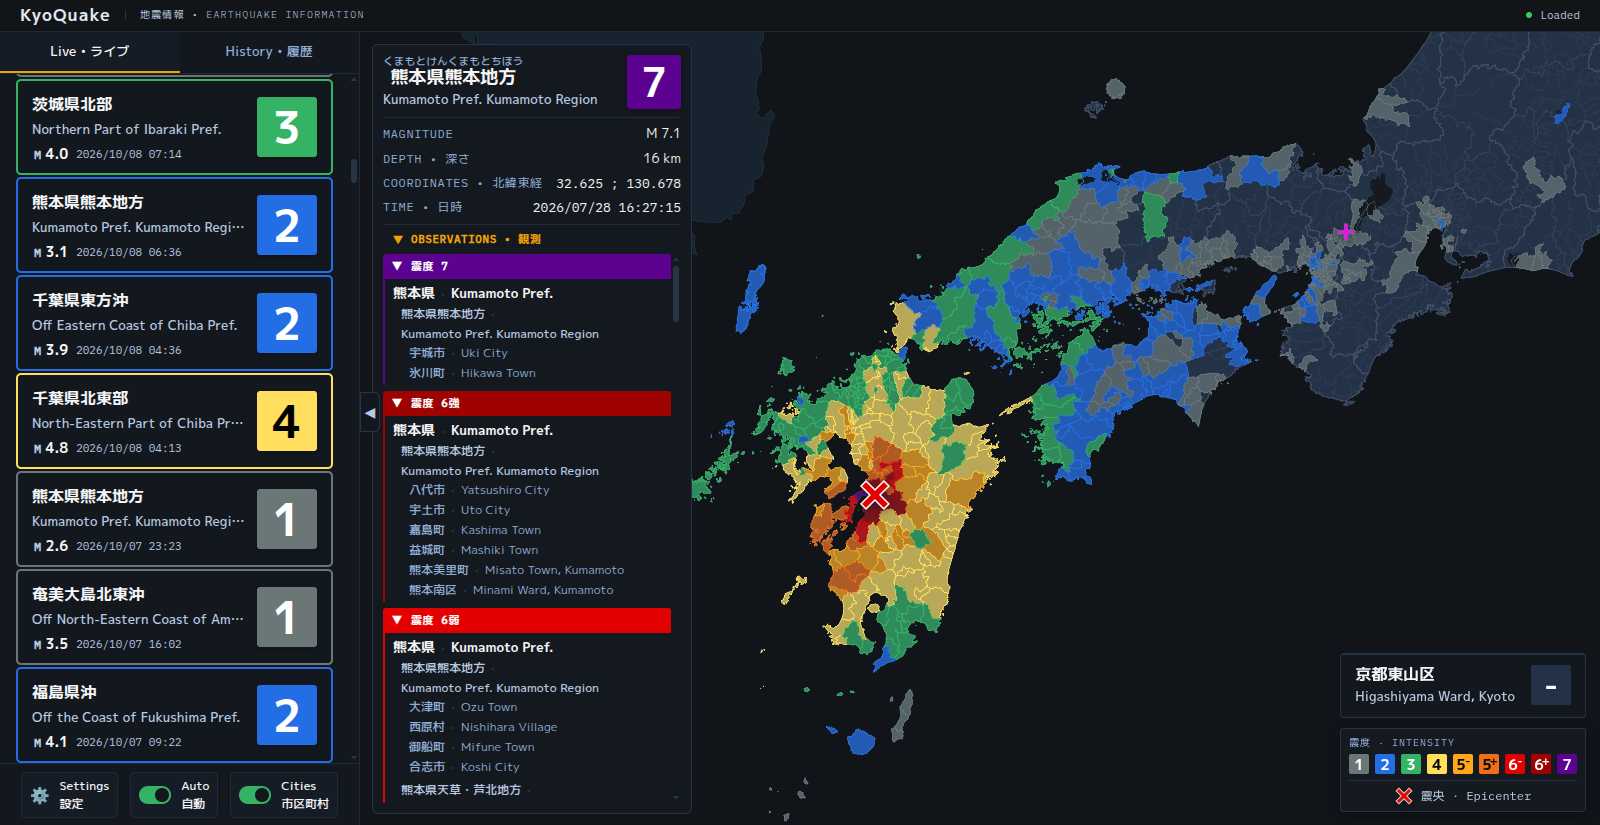
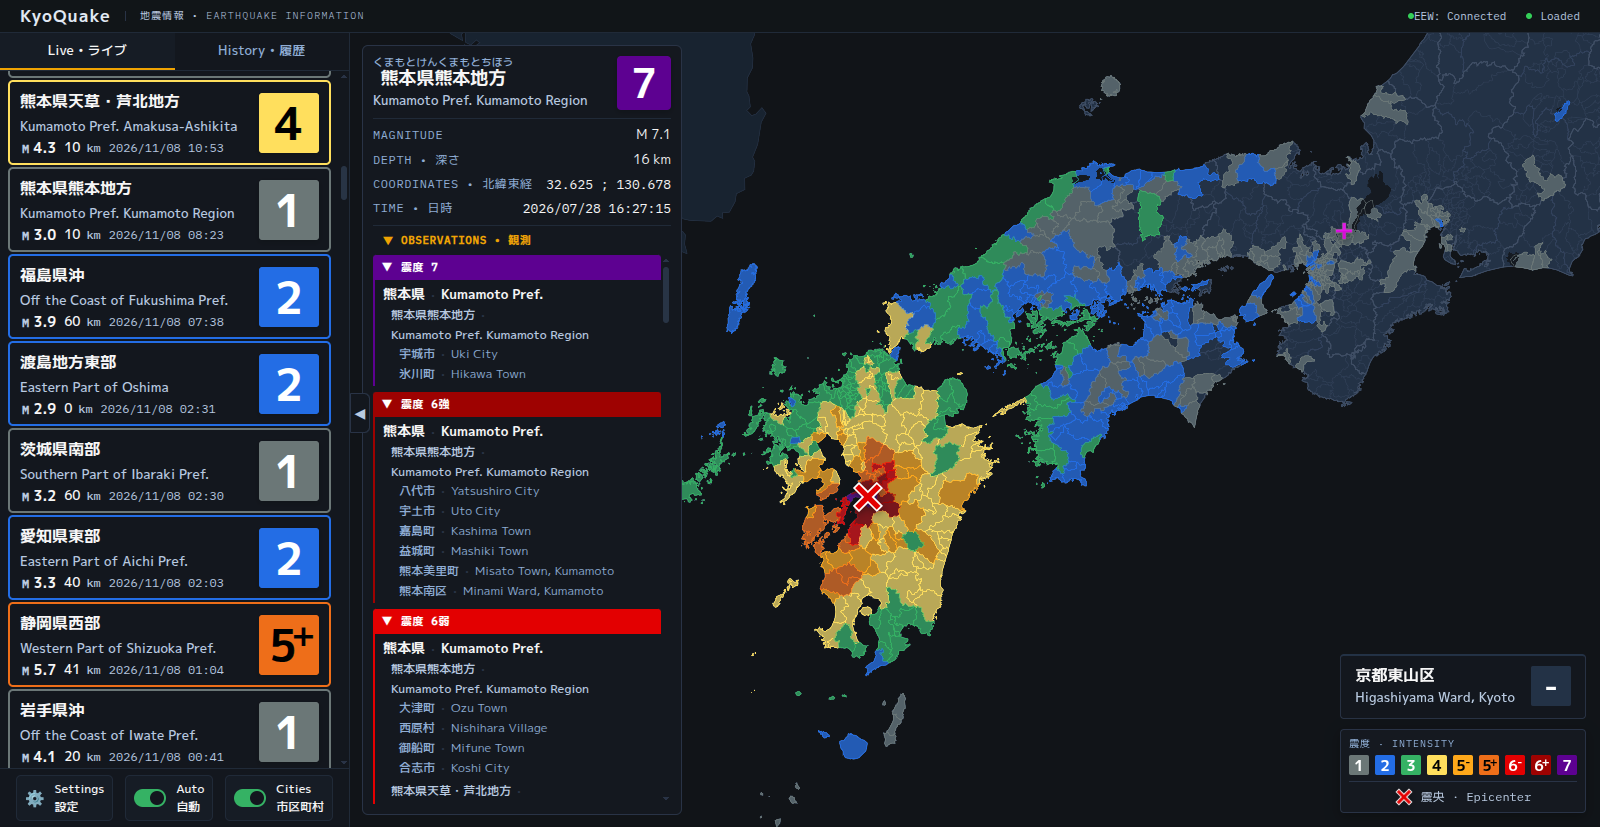
misc

diff --git a/extra/generateSlabIsolines.js b/extra/generateSlabIsolines.js
@@ -1,0 +1,250 @@
+// Generates slab-depth isolines (contours) as a 2D GeoJSON from the Slab2 grids
+// stored in public/slab2_japan.json + public/slab2_japan.bin.
+//
+// Usage: node extra/generateSlabIsolines.js
+// Output: extra/slab-isolines.geojson
+//
+// Each grid cell is 0.1 degrees; depths are km (positive down) and NaN outside
+// the slab. Contours are extracted with marching squares and stitched into
+// LineStrings. Every feature carries { name, depth }.
+
+import fs from 'node:fs';
+
+const META_PATH = 'public/slab2_japan.json';
+const BIN_PATH = 'public/slab2_japan.bin';
+const OUTPUT_PATH = 'extra/slab-isolines.geojson';
+
+const NAMES = {
+  kur: 'Kuril',
+  izu: 'Izu-Bonin',
+  ryu: 'Ryukyu',
+};
+
+// 10 km steps up to 80 km, then 20 km steps.
+function depthBreaks(maxDepth) {
+  const breaks = [];
+  for (let d = 10; d <= 80; d += 10) if (d < maxDepth) breaks.push(d);
+  for (let d = 100; d < maxDepth; d += 20) breaks.push(d);
+  return breaks;
+}
+
+// Marching-squares edge table. Corner bits: c0 = bottom-left (1), c1 =
+// bottom-right (2), c2 = top-right (4), c3 = top-left (8).
+// Edges: e0 = bottom (c0-c1), e1 = right (c1-c2), e2 = top (c2-c3), e3 = left (c3-c0).
+const CASES = {
+  0: [],
+  1: [[3, 0]],
+  2: [[0, 1]],
+  3: [[3, 1]],
+  4: [[1, 2]],
+  5: null, // ambiguous
+  6: [[0, 2]],
+  7: [[2, 3]],
+  8: [[2, 3]],
+  9: [[0, 2]],
+  10: null, // ambiguous
+  11: [[1, 2]],
+  12: [[1, 3]],
+  13: [[0, 1]],
+  14: [[0, 3]],
+  15: [],
+};
+
+function buildSlab(meta, all, code) {
+  const g = meta.slabs[code];
+  const n = g.nx * g.ny;
+  return {
+    ...g,
+    code,
+    name: NAMES[code] ?? code,
+    dep: all.subarray(g.depOffset, g.depOffset + n),
+  };
+}
+
+// Interpolate the crossing on an edge. Endpoints are normalized by grid index
+// so adjacent cells compute bit-identical coordinates for their shared edge.
+function edgePoint(slab, i1, j1, v1, i2, j2, v2, level) {
+  const k1 = j1 * slab.nx + i1;
+  const k2 = j2 * slab.nx + i2;
+  if (k1 > k2) {
+    [i1, j1, v1, i2, j2, v2] = [i2, j2, v2, i1, j1, v1];
+  }
+  const t = (level - v1) / (v2 - v1);
+  return [
+    slab.lon0 + (i1 + t * (i2 - i1)) * slab.dlon,
+    slab.lat0 + (j1 + t * (j2 - j1)) * slab.dlat,
+  ];
+}
+
+function contourSegments(slab, level) {
+  const { nx, ny, dep } = slab;
+  const segments = [];
+
+  for (let j = 0; j < ny - 1; j++) {
+    for (let i = 0; i < nx - 1; i++) {
+      const k = j * nx + i;
+      const v0 = dep[k];
+      const v1 = dep[k + 1];
+      const v2 = dep[k + nx + 1];
+      const v3 = dep[k + nx];
+      if (Number.isNaN(v0 + v1 + v2 + v3)) continue;
+
+      const c0 = v0 > level ? 1 : 0;
+      const c1 = v1 > level ? 2 : 0;
+      const c2 = v2 > level ? 4 : 0;
+      const c3 = v3 > level ? 8 : 0;
+      const code = c0 | c1 | c2 | c3;
+      if (code === 0 || code === 15) continue;
+
+      const point = (edge) => {
+        switch (edge) {
+          case 0:
+            return edgePoint(slab, i, j, v0, i + 1, j, v1, level);
+          case 1:
+            return edgePoint(slab, i + 1, j, v1, i + 1, j + 1, v2, level);
+          case 2:
+            return edgePoint(slab, i, j + 1, v3, i + 1, j + 1, v2, level);
+          default:
+            return edgePoint(slab, i, j, v0, i, j + 1, v3, level);
+        }
+      };
+
+      let pairs = CASES[code];
+      if (pairs === null) {
+        const centerAbove = (v0 + v1 + v2 + v3) / 4 > level;
+        if (code === 5) {
+          pairs = centerAbove
+            ? [
+                [0, 1],
+                [2, 3],
+              ]
+            : [
+                [3, 0],
+                [1, 2],
+              ];
+        } else {
+          pairs = centerAbove
+            ? [
+                [3, 0],
+                [1, 2],
+              ]
+            : [
+                [0, 1],
+                [2, 3],
+              ];
+        }
+      }
+
+      for (const [ea, eb] of pairs) segments.push([point(ea), point(eb)]);
+    }
+  }
+
+  return segments;
+}
+
+const KEY_PRECISION = 7;
+function key(p) {
+  return p[0].toFixed(KEY_PRECISION) + ',' + p[1].toFixed(KEY_PRECISION);
+}
+
+// Join segments that share endpoints into polylines.
+function stitch(segments) {
+  const adjacency = new Map();
+  const add = (p, index) => {
+    const k = key(p);
+    let list = adjacency.get(k);
+    if (!list) adjacency.set(k, (list = []));
+    list.push(index);
+  };
+
+  segments.forEach(([a, b], index) => {
+    add(a, index);
+    add(b, index);
+  });
+
+  const used = new Uint8Array(segments.length);
+  const findUnused = (k) => {
+    const list = adjacency.get(k);
+    if (!list) return -1;
+    for (const index of list) if (!used[index]) return index;
+    return -1;
+  };
+
+  const lines = [];
+  for (let s = 0; s < segments.length; s++) {
+    if (used[s]) continue;
+    used[s] = 1;
+
+    const [a, b] = segments[s];
+    if (key(a) === key(b)) continue;
+
+    const right = [b];
+    let tailKey = key(b);
+    for (;;) {
+      const next = findUnused(tailKey);
+      if (next === -1) break;
+      used[next] = 1;
+      const [p, q] = segments[next];
+      const other = key(p) === tailKey ? q : p;
+      right.push(other);
+      tailKey = key(other);
+    }
+
+    const left = [a];
+    let headKey = key(a);
+    for (;;) {
+      const prev = findUnused(headKey);
+      if (prev === -1) break;
+      used[prev] = 1;
+      const [p, q] = segments[prev];
+      const other = key(p) === headKey ? q : p;
+      left.push(other);
+      headKey = key(other);
+    }
+
+    left.reverse();
+    lines.push(left.concat(right));
+  }
+
+  return lines;
+}
+
+function round(p) {
+  return [Number(p[0].toFixed(5)), Number(p[1].toFixed(5))];
+}
+
+const meta = JSON.parse(fs.readFileSync(META_PATH, 'utf-8'));
+const buffer = fs.readFileSync(BIN_PATH);
+const all = new Float32Array(buffer.buffer, buffer.byteOffset, buffer.byteLength / 4);
+
+const features = [];
+for (const code of Object.keys(meta.slabs)) {
+  const slab = buildSlab(meta, all, code);
+
+  let maxDepth = -Infinity;
+  for (const v of slab.dep) {
+    if (!Number.isNaN(v) && v > maxDepth) maxDepth = v;
+  }
+
+  const breaks = depthBreaks(maxDepth);
+  console.log(`${slab.name}: depth up to ${maxDepth.toFixed(1)} km, ${breaks.length} levels`);
+
+  for (const level of breaks) {
+    const lines = stitch(contourSegments(slab, level));
+    for (const coords of lines) {
+      if (coords.length < 2) continue;
+      features.push({
+        type: 'Feature',
+        properties: { name: slab.name, depth: level },
+        geometry: { type: 'LineString', coordinates: coords.map(round) },
+      });
+    }
+    console.log(`  ${level} km: ${lines.length} isolines`);
+  }
+}
+
+const geojson = { type: 'FeatureCollection', features };
+fs.writeFileSync(OUTPUT_PATH, JSON.stringify(geojson));
+
+const sizeMB = (fs.statSync(OUTPUT_PATH).size / 1024 / 1024).toFixed(2);
+console.log(`\nSaved ${features.length} features to ${OUTPUT_PATH} (${sizeMB} MB)`);
